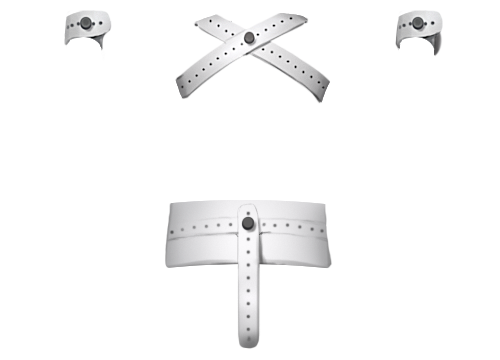
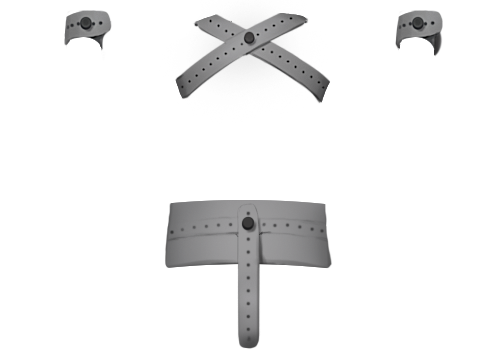
Improves colouring of Medical Bed Restraints and adds layer names

diff --git a/BondageClub/Assets/Female3DCG/Female3DCG.js b/BondageClub/Assets/Female3DCG/Female3DCG.js
@@ -1255,7 +1255,7 @@ var AssetFemale3DCG = [
 			},
 			{ Name: "WoodenCuffs", Priority: 24, Value: 30, Difficulty: 2, Time: 5, Random: false, Left: 74, AllowLock: true, Audio: "WoodenCuffs", BuyGroup: "WoodenCuffs", Prerequisite: ["LegsOpen", "NotKneeling"], SetPose: ["LegsOpen"], Effect: ["Freeze", "Prone"], Block: ["ItemLegs"], RemoveAtLogin: false },
 			{
-				Name: "MedicalBedRestraints", Value: -1, Difficulty: 6, Time: 5, RemoveTime: 5, AllowLock: true, BuyGroup: "MedicalBedRestraints", Left: 0, Top: 0,
+				Name: "MedicalBedRestraints", Value: -1, Difficulty: 5, Time: 5, RemoveTime: 5, DefaultColor: "#ccc", AllowLock: true, BuyGroup: "MedicalBedRestraints", Left: 0, Top: 0,
 				Prerequisite: ["OnBed", "LegsOpen"], SetPose: ["LegsOpen"], Effect: ["Prone", "BlockKneel"], Block: ["ItemDevices"], AvailableLocations: ["Asylum"],
 				HideItem: ["ClothLowerGown2Skirt", "ClothLowerPajama1"],
 				Layer: [
@@ -1340,7 +1340,7 @@ var AssetFemale3DCG = [
 				Block: ["ItemFeet", "ItemBoots", "ItemPelvis", "ItemVulva", "ItemVulvaPiercings", "ItemButt"],
 			},
 			{
-				Name: "MedicalBedRestraints", Value: -1, Difficulty: 6, Time: 5, RemoveTime: 5, AllowLock: true, BuyGroup: "MedicalBedRestraints", Left: 0, Top: 0,
+				Name: "MedicalBedRestraints", Value: -1, Difficulty: 5, Time: 5, RemoveTime: 5, DefaultColor: "#ccc", AllowLock: true, BuyGroup: "MedicalBedRestraints", Left: 0, Top: 0,
 				Prerequisite: ["OnBed", "LegsOpen"], SetPose: ["LegsOpen"], Effect: ["Prone", "BlockKneel"], Block: ["ItemDevices"], AvailableLocations: ["Asylum"],
 				HideItem: ["ClothBondageDress1", "ClothBondageDress2", "ClothBridesmaidDress1", "ClothDress3", "ClothGown3", "ClothWeddingDress1", "ClothWeddingDress2", "ClothLowerWaspie1", "ClothLowerGown2Skirt", "ClothLowerPajama1", "ClothLowerClothSkirt1", "ClothLowerPencilSkirt", "ClothLowerWaspie2", "ClothLowerWaspie3"],
 				Layer: [
@@ -2124,7 +2124,7 @@ var AssetFemale3DCG = [
 				AllowType: ["Light", "Inflated", "Bloated", "Max"], 
 				Block: ["ItemBreast", "ItemButt", "ItemHands", "ItemNipples", "ItemNipplesPiercings", "ItemPelvis", "ItemTorso", "ItemVulva", "ItemVulvaPiercings"], SelfUnlock: false, Extended:true},
 			{
-				Name: "MedicalBedRestraints", Value: -1, Difficulty: 6, Time: 5, RemoveTime: 5, AllowLock: true, Left: 0, BuyGroup: "MedicalBedRestraints",
+				Name: "MedicalBedRestraints", Value: -1, Difficulty: 5, Time: 5, RemoveTime: 5, DefaultColor: "#ccc", AllowLock: true, Left: 0, BuyGroup: "MedicalBedRestraints",
 				Prerequisite: ["OnBed"], SetPose: ["Yoked"], Effect: ["Block", "Prone"], Block: ["ItemDevices"], AvailableLocations: ["Asylum"], Hide: ["Cloth", "ClothLower"],
 				HideItemExclude: ["ClothBondageBustier1", "ClothBondageBustier2", "ClothLowerLatexSkirt1", "ClothCorsetShirt", "ClothGown2Top", "ClothLeatherBolero", "ClothLeatherCorsetTop1", "ClothLeatherCropTop", "ClothMistressTop", "ClothReverseBunnySuit", "ClothShoulderlessTop", "ClothComfyTop", "ClothSleevelessTop", "ClothStudentOutfit3", "ClothSuspenderTop1", "ClothSweater1", "ClothTShirt1", "ClothTennisShirt1", "ClothBodyTowel1", "ClothVirginKiller1", "ClothLowerLeggings1", "ClothLowerLeggings2", "ClothLowerMistressBottom"],
 				Layer: [
